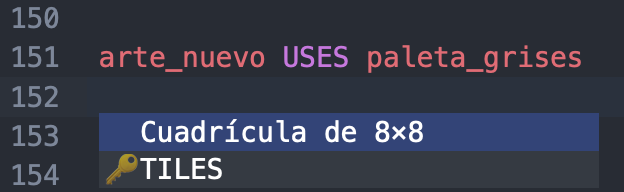
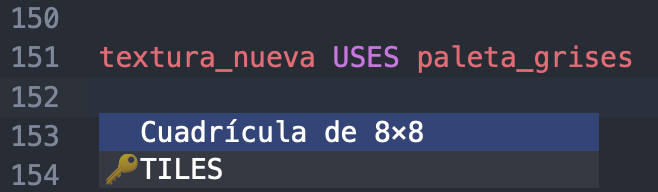
Cambio de arte a textura

diff --git a/web/src/main.js b/web/src/main.js
@@ -89,6 +89,7 @@ async function start() {
 			setTimeout(() => view.dispatch({ effects: server.reconfigure(connect()) }), RETRY_MS);
 	}
 
+	if (sessionStorage.getItem('source')) window.addEventListener('beforeunload', confirmLeaving);
 	const view = new EditorView({
 		state: EditorState.create({
 			doc: sessionStorage.getItem('source') ?? (await readFromUrl()) ?? session.source,
@@ -102,7 +103,10 @@ async function start() {
 				// On document.body, so tooltips on the first line are not clipped.
 				tooltips({ position: 'fixed', parent: document.body }),
 				EditorView.updateListener.of((update) => {
-					if (update.docChanged) sessionStorage.setItem('source', update.state.doc.toString());
+					if (update.docChanged) {
+						sessionStorage.setItem('source', update.state.doc.toString());
+						window.addEventListener('beforeunload', confirmLeaving);
+					}
 					for (const transaction of update.transactions)
 						if (transaction.isUserEvent('input.complete'))
 							transaction.changes.iterChanges((fromA, toA, fromB, toB, text) => track('completion', text.line(1).text));
@@ -184,7 +188,13 @@ for (const link of document.querySelectorAll('a[target^="gbsoko-"]'))
 		const tab = window.open('', link.target);
 		if (!tab) return;
 		event.preventDefault();
-		if (!tab.location.pathname.startsWith(new URL(link.href).pathname)) tab.location.href = link.href;
+		let there = '';
+		try {
+			there = tab.location.pathname;
+		} catch {
+			// The tab is on another site, which can only be navigated away from.
+		}
+		if (!there.startsWith(new URL(link.href).pathname)) tab.location.href = link.href;
 		tab.focus();
 	});
 

diff --git a/web/docs/src/tarea.md b/web/docs/src/tarea.md
@@ -37,8 +37,8 @@ Puedes consultar las páginas [Texturas](textures.md) y [Jugador](player.md).
 En esta fase tendrás que añadir una caja verde con su propia casilla objetivo, también verde, de forma que cada caja tenga que llegar a la casilla objetivo de su color. Igual que la caja naranja se vuelve azul al llegar a su casilla objetivo, la caja verde se volverá morada al llegar a la suya.
 
 1. En el bloque `PALETTES`, añade `paleta_verdes` y `paleta_morados`, que tienes en el anexo.
-2. En el bloque `TEXTURES`, cambia `arte_objetivo`, la textura de la casilla objetivo que ya existe, para que su punto sea naranja, con `paleta_naranjas`.
-3. En el mismo bloque, crea tres texturas nuevas, copias de `arte_caja`, `arte_caja_colocada` y `arte_objetivo` con otra paleta. La caja verde y la nueva casilla objetivo usan `paleta_verdes` y la caja verde sobre su casilla objetivo usa `paleta_morados`.
+2. En el bloque `TEXTURES`, cambia `textura_objetivo`, la textura de la casilla objetivo que ya existe, para que su punto sea naranja, con `paleta_naranjas`.
+3. En el mismo bloque, crea tres texturas nuevas, copias de `textura_caja`, `textura_caja_colocada` y `textura_objetivo` con otra paleta. La caja verde y la nueva casilla objetivo usan `paleta_verdes` y la caja verde sobre su casilla objetivo usa `paleta_morados`.
 4. En el bloque `TILES`, crea la baldosa de la nueva casilla objetivo, con su textura.
 5. En el bloque `OBJECTS`, crea el objeto de la caja verde, con su textura normal y la que usa sobre su casilla objetivo.
 6. En el bloque `LEGEND`, añade un carácter que represente la caja verde sobre el suelo, para poder colocarla en los niveles.
@@ -54,10 +54,10 @@ Puedes consultar las páginas [Paletas](palettes.md), [Texturas](textures.md), [
 
 En esta fase tendrás que añadir tres baldosas nuevas y un nivel que las use.
 
-1. En el bloque `TEXTURES`, añade las texturas `arte_grieta`, `arte_pozo` y `arte_salida` que tienes en el anexo.
-2. En el bloque `TILES`, crea una baldosa para cada textura. La de `arte_grieta` se transforma en la de `arte_pozo` cuando el jugador sale de ella. Si el jugador entra en la de `arte_pozo`, muere y el nivel se reinicia. La de `arte_salida` es la salida y no necesita ningún comportamiento especial.
-3. En el bloque `WIN`, añade dos condiciones, que no quede ninguna baldosa de `arte_grieta` y que el jugador esté en la salida. Los niveles anteriores seguirán funcionando, porque no usan esas baldosas.
-4. En el bloque `LEVELS`, añade un nivel nuevo al final, en el que el jugador tenga que pisar todas las baldosas de `arte_grieta` antes de llegar a la salida.
+1. En el bloque `TEXTURES`, añade las texturas `textura_grieta`, `textura_pozo` y `textura_salida` que tienes en el anexo.
+2. En el bloque `TILES`, crea una baldosa para cada textura. La de `textura_grieta` se transforma en la de `textura_pozo` cuando el jugador sale de ella. Si el jugador entra en la de `textura_pozo`, muere y el nivel se reinicia. La de `textura_salida` es la salida y no necesita ningún comportamiento especial.
+3. En el bloque `WIN`, añade dos condiciones, que no quede ninguna baldosa de `textura_grieta` y que el jugador esté en la salida. Los niveles anteriores seguirán funcionando, porque no usan esas baldosas.
+4. En el bloque `LEVELS`, añade un nivel nuevo al final, en el que el jugador tenga que pisar todas las baldosas de `textura_grieta` antes de llegar a la salida.
 5. Compila tu juego y comprueba que se ve como en la imagen de abajo.
 
 Puedes consultar las páginas [Texturas](textures.md), [Baldosas](tiles.md), [Condiciones de victoria](win.md) y [Niveles](levels.md).
@@ -128,7 +128,7 @@ paleta_morados RGB_WHITE #F5D76E #6E4FA5 RGB_BLACK
 ### Fase 4
 
 ```gbsoko
-arte_grieta USES paleta_grises
+textura_grieta USES paleta_grises
 "01110000"
 "10000020"
 "00022220"
@@ -138,7 +138,7 @@ arte_grieta USES paleta_grises
 "01002110"
 "00010000"
 
-arte_pozo USES paleta_grises
+textura_pozo USES paleta_grises
 "33333333"
 "33333333"
 "33333333"
@@ -148,7 +148,7 @@ arte_pozo USES paleta_grises
 "33333333"
 "33333333"
 
-arte_salida USES paleta_rojos
+textura_salida USES paleta_rojos
 "22222333"
 "21133313"
 "23331313"

diff --git a/web/docs/src/tiles.md b/web/docs/src/tiles.md
@@ -9,9 +9,9 @@ Para definir una baldosa necesitas el nombre que le quieres dar, el carácter co
 TILES
 ======
 
-suelo " " USES arte_suelo
-pared "#" USES arte_pared BLOCKS
-objetivo "." USES arte_objetivo
+suelo " " USES textura_suelo
+pared "#" USES textura_pared BLOCKS
+objetivo "." USES textura_objetivo
 ```
 
 <div class="box assist-box">
@@ -30,7 +30,7 @@ A continuación se explican los distintos modificadores y para qué se puede usa
 El modificador `BLOCKS` hace que ni el jugador ni los objetos puedan atravesar la casilla. Normalmente se utiliza para las paredes que delimitan el nivel.
 
 ```gbsoko
-pared "#" USES arte_pared BLOCKS
+pared "#" USES textura_pared BLOCKS
 ```
 
 ## SLIDES
@@ -38,7 +38,7 @@ pared "#" USES arte_pared BLOCKS
 El modificador `SLIDES` hace que tanto el jugador como los objetos resbalen. El jugador o el objeto que entra en la casilla resbala en la misma dirección en la que entra, hasta chocar con algo o salir de la baldosa.
 
 ```gbsoko
-hielo "~" USES arte_hielo SLIDES
+hielo "~" USES textura_hielo SLIDES
 ```
 
 <img srcset="shots/tile-slides.gif 2x">
@@ -48,7 +48,7 @@ hielo "~" USES arte_hielo SLIDES
 Cuando un objeto entra en una casilla con el modificador `DESTROYS`, desaparece. Esto se puede utilizar como condición de victoria o para que, si el jugador destruye un objeto que necesitaba, el nivel se quede sin solución y tenga que reiniciarlo. Si es el jugador quien entra, se interpreta que ha muerto y el nivel se reinicia.
 
 ```gbsoko
-abismo "!" USES arte_abismo DESTROYS
+abismo "!" USES textura_abismo DESTROYS
 ```
 
 <img srcset="shots/tile-destroys.gif 2x">
@@ -58,7 +58,7 @@ abismo "!" USES arte_abismo DESTROYS
 El modificador `COLLAPSES INTO` transforma una baldosa en otra cuando el jugador sale de ella. En el ejemplo, la baldosa `fragil` se transforma en `abismo` cuando el jugador sale de ella.
 
 ```gbsoko
-fragil "%" USES arte_fragil COLLAPSES INTO abismo
+fragil "%" USES textura_fragil COLLAPSES INTO abismo
 ```
 
 <img srcset="shots/tile-collapses.gif 2x">
@@ -68,7 +68,7 @@ fragil "%" USES arte_fragil COLLAPSES INTO abismo
 El modificador `FILLS INTO` funciona de forma similar a `DESTROYS`, ya que el objeto que entra en la casilla desaparece. La diferencia es que, además, la casilla se rellena y se transforma en otra baldosa, como ocurre con `COLLAPSES INTO`. Cuidado, porque este modificador también puede matar al jugador y reiniciar el nivel.
 
 ```gbsoko
-agujero "H" USES arte_agujero FILLS INTO suelo
+agujero "H" USES textura_agujero FILLS INTO suelo
 ```
 
 <img srcset="shots/tile-fills.gif 2x">
@@ -78,7 +78,7 @@ agujero "H" USES arte_agujero FILLS INTO suelo
 El modificador `CARRIES` funciona de forma similar a `SLIDES`, pero en vez de mantener al jugador en la dirección en la que entró, lo empuja en la dirección que especifiques, que puede ser `UP`, `DOWN`, `LEFT` o `RIGHT`. Se pueden encadenar varias baldosas con este modificador, que no afecta a los objetos, únicamente al jugador.
 
 ```gbsoko
-cinta_derecha ">" USES arte_cinta_derecha CARRIES RIGHT
+cinta_derecha ">" USES textura_cinta_derecha CARRIES RIGHT
 ```
 
 <img srcset="shots/tile-carries.gif 2x">

diff --git a/web/docs/src/objects.md b/web/docs/src/objects.md
@@ -9,8 +9,8 @@ Para declarar un objeto escribe el nombre que le quieres dar, seguido de la pala
 OBJECTS
 ========
 
-caja USES arte_caja ON_GOAL arte_caja_colocada
-caja_azul USES arte_caja_azul ON_GOAL arte_caja_azul_colocada
+caja USES textura_caja ON_GOAL textura_caja_colocada
+caja_azul USES textura_caja_azul ON_GOAL textura_caja_azul_colocada
 ```
 
 Puedes tener varios objetos, cada uno con su casilla objetivo correspondiente, y utilizarlos como condición de victoria. Por ejemplo, que todas las cajas naranjas tengan que ir a la casilla objetivo naranja y todas las azules a la azul.

diff --git a/web/docs/src/prelude.md b/web/docs/src/prelude.md
@@ -3,11 +3,11 @@
 Al principio del código es donde se definen los ajustes del juego. Son opcionales, pero rellenarlos permitirá añadir una pantalla de título y una pantalla de fin, cambiar las velocidades, dejar que el jugador tire de los objetos además de empujarlos o quitar el selector de niveles para obligar a jugarlos en orden.
 
 ```gbsoko
-TITLE "SOKOBAN"
-AUTHOR "TU NOMBRE"
+TITLE "MI JUEGO"
+AUTHOR "AUTOR"
 MOVE_SPEED 8
 ANIM_SPEED 4
-ENDING "YOU WIN\nSEE YOU AGAIN"
+ENDING "HAS SUPERADO TODOS LOS PUZLES"
 PLAYER_CAN_PULL
 NO_LEVEL_SELECT
 ```

diff --git a/web/docs/src/levels.md b/web/docs/src/levels.md
@@ -45,9 +45,9 @@ Los caracteres `#`, el espacio y `.` son los de las baldosas de la pared, el sue
 TILES
 ======
 
-suelo " " USES arte_suelo
-pared "#" USES arte_pared BLOCKS
-objetivo "." USES arte_objetivo
+suelo " " USES textura_suelo
+pared "#" USES textura_pared BLOCKS
+objetivo "." USES textura_objetivo
 ```
 
 Los caracteres `@`, `+`, `$` y `*` son los de la leyenda, que colocan al jugador y a la caja sobre el suelo o sobre la casilla objetivo.
